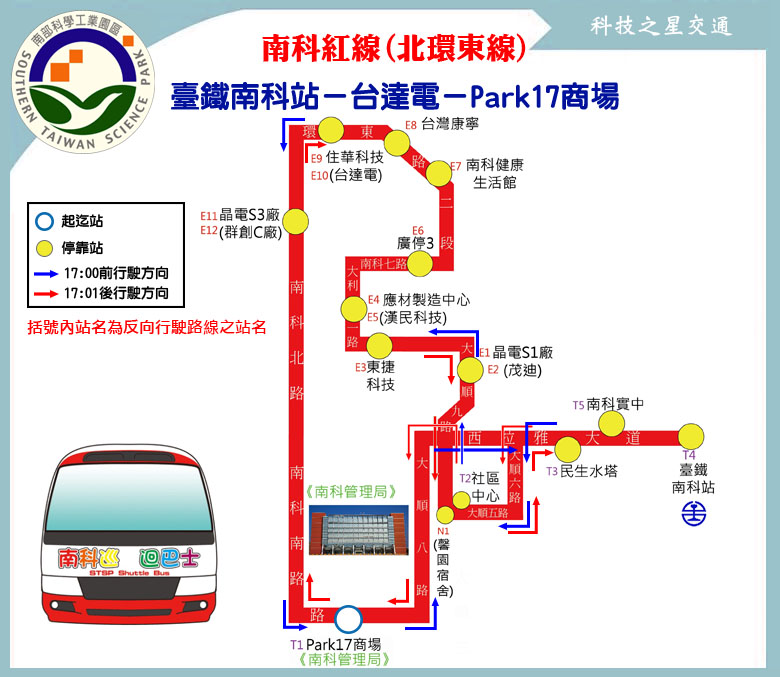
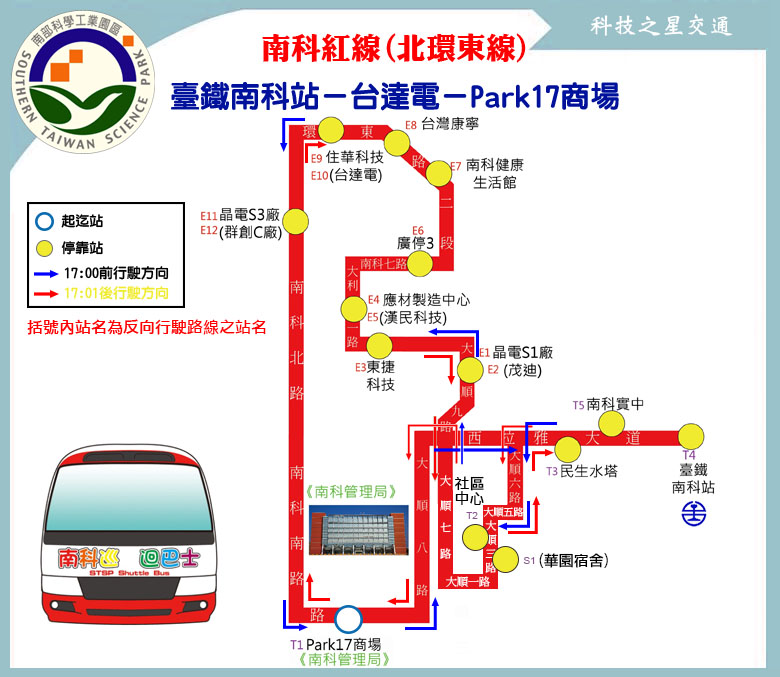
更新時刻表：南科紅線、南科橘線、南科藍線

Changed region(s): [[0.5538, 0.6824, 0.8, 0.8996], [0.0923, 0.4032, 0.2154, 0.4653]]

diff --git a/route/fare_and_time/STSP_orange.js b/route/fare_and_time/STSP_orange.js
@@ -1,20 +1,22 @@
 // format = [time at the start stop] or
 // [time, other] or
 // [time, start_stop, end_stop, other]
-STSP_orange_main_stop_name = ["Park 17<br />商場","民生<br />水塔","臺鐵<br />南科站","南科<br />實中","社區<br />中心","西拉雅<br />廣場","台積電","群創<br />B廠","聯電","Park 17<br />商場"];
-STSP_orange_main_stop_time_consume = [0, 3, 7, 10, 13, 16, 19, 21, 22, 24];
-STSP_orange_important_stop = [0, 2, 4, 6]; // Park 17商場, 臺鐵南科站, 社區中心, 台積電
-var TRA_NK = 2; // 臺鐵南科站
-var stop_1 = 3; // 南科實中
-var stop_2 = 4; // 社區中心
-var stop_3 = 5; // 西拉雅廣場
-STSP_orange_time_go = [["06:20"],["06:41"],["07:05",[[stop_1,1]]],["07:20",[[stop_1,1,stop_2,2,stop_3,1]]],
-["07:49",[[stop_1,1,stop_2,2,stop_3,1]]],["07:58",[[stop_1,1,stop_2,2,stop_3,1]]],["08:25",[[stop_1,1]]],["09:06"],["09:37"],
-["10:36"],["11:05"],["11:50",['*',[TRA_NK,21]]],["12:48"],["13:30"],["13:50"],["14:36"],["15:32"],["16:12"],["17:00"]
+STSP_orange_main_stop_name = ["Park 17<br />商場","馨園<br />宿舍","南科<br />實中","民生<br />水塔","臺鐵<br />南科站","南科<br />實中","社區<br />中心","西拉雅<br />廣場","台積電","群創<br />B廠","聯電","Park 17<br />商場"];
+STSP_orange_main_stop_time_consume = [0, 3, 8, 3, 7, 10, 13, 16, 19, 21, 22, 24];
+STSP_orange_important_stop = [0, 4, 6, 8]; // Park 17商場, 臺鐵南科站, 社區中心, 台積電
+var stop_01 = 1; // 馨園宿舍
+var stop_02 = 2; // 南科實中
+var TRA_NK = 4; // 臺鐵南科站
+var stop_1 = 5; // 南科實中
+var stop_2 = 6; // 社區中心
+var stop_3 = 7; // 西拉雅廣場
+STSP_orange_time_go = [["06:20",[stop_01,stop_02]],["06:41",[stop_01,stop_02]],["07:05",[stop_01,stop_02,[stop_1,1]]],["07:12",[[stop_02+1,8,stop_1,1,stop_2,2,stop_3,1]]],
+["07:49",[stop_01,stop_02,[stop_1,1,stop_2,2,stop_3,1]]],["07:58",[stop_01,stop_02,[stop_1,1,stop_2,2,stop_3,1]]],["08:25",[stop_01,stop_02,[stop_1,1]]],["09:06",[stop_01,stop_02]],["09:37",[stop_01,stop_02]],
+["10:36",[stop_01,stop_02]],["11:05",[stop_01,stop_02]],["11:50",[stop_01,stop_02,'*',[TRA_NK,21]]],["12:48",[stop_01,stop_02]],["13:30",[stop_01,stop_02]],["13:50",[stop_01,stop_02]],["14:36",[stop_01,stop_02]],["15:32",[stop_01,stop_02]],["16:12",[stop_01,stop_02]],["17:00",[stop_01,stop_02]]
 ];
 
 // The name of return stops are different
-STSP_orange_main_stop_name_return = ["Park 17<br />商場","聯電","霞客湖<br />停車場","南茂<br />科技","商務<br />會館","馨園<br />宿舍","民生<br />水塔","臺鐵<br />南科站","南科<br />實中","社區<br />中心","Park 17<br />商場"];
+STSP_orange_main_stop_name_return = ["Park 17<br />商場","聯電","霞客湖<br />停車場","南茂<br />科技","商務<br />會館","華園<br />宿舍","民生<br />水塔","臺鐵<br />南科站","南科<br />實中","社區<br />中心","Park 17<br />商場"];
 STSP_orange_main_stop_time_consume_return = [0, 2, 4, 6, 9, 11, 13, 17, 20, 22, 25];
-STSP_orange_important_stop_return = [0, 3, 5, 7]; // Park 17商場, 南茂科技, 馨園宿舍, 臺鐵南科站
+STSP_orange_important_stop_return = [0, 3, 5, 7]; // Park 17商場, 南茂科技, 華園宿舍, 臺鐵南科站
 STSP_orange_time_return = [["17:09"],["17:42"],["18:05"],["18:28"],["18:58"],["19:20"],["20:12"],["20:43"],["21:25"]];

diff --git a/route/fare_and_time/STSP_blue.js b/route/fare_and_time/STSP_blue.js
@@ -1,16 +1,18 @@
 // format = [time at the start stop] or
 // [time, other] or
 // [time, start_stop, end_stop, other]
-STSP_blue_main_stop_name = ["Park 17<br />商場","南科<br />實中","民生<br />水塔","臺鐵<br />南科站","南科<br />實中","社區<br />中心","育成<br />中心","聯電","群創<br />D廠","迎曦湖","Park 17<br />商場"];
-STSP_blue_main_stop_time_consume = [0, 5, 3, 7, 10, 13, 16, 17, 19, 21, 24];
-STSP_blue_important_stop = [0, 3, 5, 7]; // Park 17商場, 臺鐵南科站, 社區中心, 聯電
-var skip_stop = 1; // 南科實中
-var TRA_NK = 3;
-STSP_blue_time_go = [["06:20",[skip_stop]],["06:40",[skip_stop]],["07:05",[skip_stop,[TRA_NK+1,1]]],["07:18",[skip_stop,[TRA_NK+1,1,TRA_NK+2,2,TRA_NK+3,1]]],["07:20",[skip_stop,[TRA_NK+1,1,TRA_NK+2,2,TRA_NK+3,1]]],
-["07:48",[skip_stop,[TRA_NK+1,1,TRA_NK+2,2,TRA_NK+3,1]]],["07:56",[skip_stop,[TRA_NK+1,1,TRA_NK+2,2,TRA_NK+3,1]]],["07:58",[skip_stop,[TRA_NK+1,1,TRA_NK+2,2,TRA_NK+3,1]]],["08:21",[skip_stop,[TRA_NK+1,1]]],["08:25",[skip_stop,[TRA_NK+1,1]]],["09:05",[skip_stop]],
-["09:23",[skip_stop]],["10:37",[skip_stop]],["11:05",[skip_stop]],["11:32",[skip_stop]],["12:11",[skip_stop]],["13:30",[skip_stop]],
-["14:35",[skip_stop]],["15:22",[skip_stop]],["16:06",[[skip_stop+1,5]]],["16:35",[skip_stop]],["17:00",0,TRA_NK,[[skip_stop+1,5,TRA_NK,1]]],
-["17:00",0,TRA_NK,[[skip_stop+1,5,TRA_NK,1]]],["17:20",skip_stop,TRA_NK,[[skip_stop+1,5]]],["17:20",skip_stop,TRA_NK,[[skip_stop+1,5]]]
+STSP_blue_main_stop_name = ["Park 17<br />商場","馨園<br />宿舍","南科<br />實中","民生<br />水塔","臺鐵<br />南科站","南科<br />實中","社區<br />中心","育成<br />中心","聯電","群創<br />D廠","迎曦湖","Park 17<br />商場"];
+STSP_blue_main_stop_time_consume = [0, 3, 8, 3, 7, 10, 13, 16, 17, 19, 21, 24];
+STSP_blue_important_stop = [0, 4, 6, 8]; // Park 17商場, 臺鐵南科站, 社區中心, 聯電
+var skip_stop = 1; // 馨園宿舍
+var skip_stop_2 = 2; // 南科實中
+var stop_1 = 3; // 民生水塔
+var TRA_NK = 4;
+STSP_blue_time_go = [["06:20",[skip_stop,skip_stop_2]],["06:40",[skip_stop,skip_stop_2]],["06:57",[[stop_1,8,TRA_NK+1,1]]],["07:10",[[stop_1,8,TRA_NK+1,1,TRA_NK+2,2,TRA_NK+3,1]]],["07:12",[[stop_1,8,TRA_NK+1,1,TRA_NK+2,2,TRA_NK+3,1]]],
+["07:48",[skip_stop,skip_stop_2,[TRA_NK+1,1,TRA_NK+2,2,TRA_NK+3,1]]],["07:56",[skip_stop,skip_stop_2,[TRA_NK+1,1,TRA_NK+2,2,TRA_NK+3,1]]],["07:58",[skip_stop,skip_stop_2,[TRA_NK+1,1,TRA_NK+2,2,TRA_NK+3,1]]],["08:21",[skip_stop,skip_stop_2,[TRA_NK+1,1]]],["08:25",[skip_stop,skip_stop_2,[TRA_NK+1,1]]],["09:05",[skip_stop,skip_stop_2]],
+["09:23",[skip_stop,skip_stop_2]],["10:23",[skip_stop,skip_stop_2]],["11:05",[skip_stop,skip_stop_2]],["11:32",[skip_stop,skip_stop_2]],["12:11",[skip_stop,skip_stop_2]],["13:30",[skip_stop,skip_stop_2]],
+["14:35",[skip_stop,skip_stop_2]],["15:22",[skip_stop,skip_stop_2]],["16:06",[skip_stop,[skip_stop_2,-3,stop_1,8]]],["16:35",[skip_stop,skip_stop_2]],["17:00",0,TRA_NK,[skip_stop,[skip_stop_2,-3,stop_1,8,TRA_NK,1]]],
+["17:00",0,TRA_NK,[skip_stop,[skip_stop_2,-3,stop_1,8,TRA_NK,1]]],["17:20",skip_stop_2,TRA_NK,[[stop_1,8]]],["17:20",skip_stop_2,TRA_NK,[[stop_1,8]]]
 ];
 
 // The name of return stops are different

diff --git a/route/fare_and_time/STSP_red.js b/route/fare_and_time/STSP_red.js
@@ -10,17 +10,17 @@ var stop_2 = 2; // 南科實中
 var stop_3 = 3; // 民生水塔
 var TRA_NK = 4;
 var stop_4 = 11; // 南科健康生活館
-STSP_red_time_go = [["06:19",[stop_1,stop_2,[stop_4,-1,stop_4+3,1]]],["06:30",stop_1,TRA_NK,[stop_2,stop_3]],["06:45",stop_1,stop_2],
-["06:40",[stop_1,stop_2]],["06:55",stop_1,stop_2],["07:05",stop_1,stop_2],["07:03",[stop_1,stop_2,[TRA_NK+1,1]]],
-["07:15",stop_1,TRA_NK+1,[stop_3,[TRA_NK,6,TRA_NK+1,1]]],["07:18",[stop_1,stop_2,[TRA_NK+1,1,TRA_NK+2,2,TRA_NK+3,1]]],
+STSP_red_time_go = [["06:19",[stop_1,stop_2,[stop_4,-1,stop_4+3,1]]],["06:30",stop_1,TRA_NK,[stop_2,stop_3]],
+["06:40",[stop_1,stop_2]],["07:05",stop_1,stop_2],["07:03",[stop_1,stop_2,[TRA_NK+1,1]]],
+["07:16",stop_1,TRA_NK+1,[stop_3,[TRA_NK,5,TRA_NK+1,1]]],["07:18",[stop_1,stop_2,[TRA_NK+1,1,TRA_NK+2,2,TRA_NK+3,1]]],
 ["07:47",[stop_1,stop_2,[TRA_NK+1,1,TRA_NK+2,2,TRA_NK+3,1]]],["07:47",[stop_1,stop_2,[TRA_NK+1,1,TRA_NK+2,2,TRA_NK+3,1]]],
-["07:56",[stop_1,stop_2,[TRA_NK+1,1,TRA_NK+2,2,TRA_NK+3,1]]],["08:25",[stop_1,stop_2,[TRA_NK+1,1]]],["09:05",[stop_1,stop_2]],
+["07:56",[stop_1,stop_2,[TRA_NK+1,1,TRA_NK+2,2,TRA_NK+3,1]]],["08:25",[stop_1,stop_2,[TRA_NK+1,1]]],["08:26",[stop_1,stop_2,[TRA_NK+1,1]]],["09:05",[stop_1,stop_2]],
 ["09:23",[stop_1,stop_2]],["10:01",[stop_1,stop_2]],["10:35",[stop_1,stop_2]],["11:33",[stop_1,stop_2]],["12:30",[stop_1,stop_2]],
 ["13:30",[stop_1,stop_2]],["14:00",[stop_1,stop_2]],["14:38",[stop_1,stop_2]],["15:32",[stop_1,stop_2]],["16:25",[stop_1,stop_2]]
 ];
 
 // The name of return stops are different
-STSP_red_main_stop_name_return = ["Park 17<br />商場","群創<br />C廠","台達電","台灣<br />康寧","南科健康<br />生活館","廣停3","漢民<br />科技","東捷<br />科技","茂迪","馨園<br />宿舍","民生<br />水塔","臺鐵<br />南科站","南科<br />實中","社區<br />中心","Park 17<br />商場"];
+STSP_red_main_stop_name_return = ["Park 17<br />商場","群創<br />C廠","台達電","台灣<br />康寧","南科健康<br />生活館","廣停3","漢民<br />科技","東捷<br />科技","茂迪","華園<br />宿舍","民生<br />水塔","臺鐵<br />南科站","南科<br />實中","社區<br />中心","Park 17<br />商場"];
 STSP_red_main_stop_time_consume_return = [0, 2, 5, 6, 7, 9, 11, 12, 14, 16, 18, 22, 25, 27, 30];
-STSP_red_important_stop_return = [0, 2, 9, 11]; // Park 17商場, 台達電, 馨園宿舍, 臺鐵南科站
-STSP_red_time_return = [["17:02"],["17:35"],["17:58"],["18:23"],["18:53"],["19:20"],["20:08"],["20:39"],["21:20"]];
+STSP_red_important_stop_return = [0, 2, 9, 11]; // Park 17商場, 台達電, 華園宿舍, 臺鐵南科站
+STSP_red_time_return = [["17:02"],["17:35"],["17:37"],["17:58"],["18:23"],["18:53"],["19:20"],["20:08"],["20:39"],["21:20"]];
